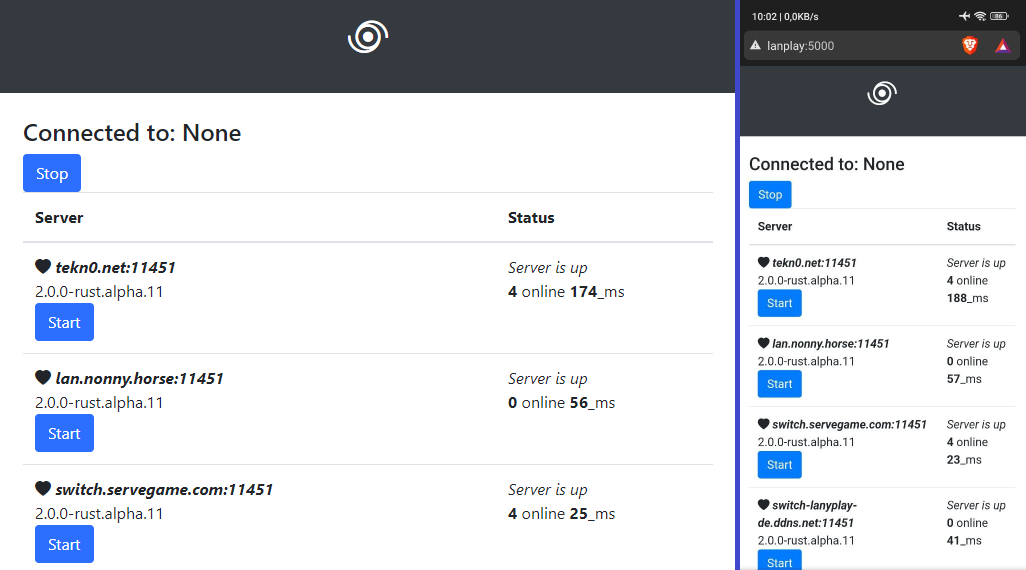
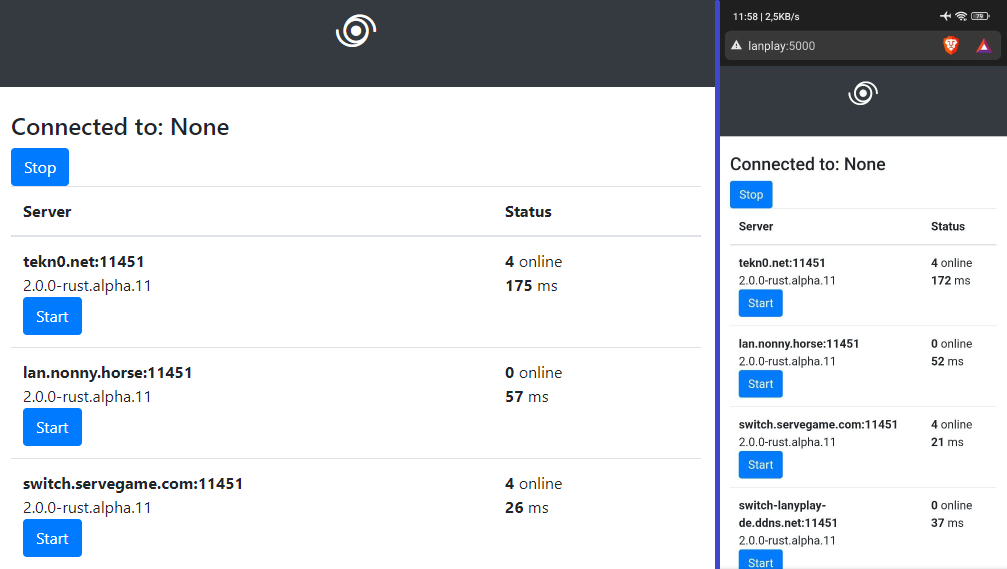
UI rework

diff --git a/templates/index.html b/templates/index.html
@@ -18,22 +18,21 @@
             <tr>
                 <td>
                     {% if server[2] == true %}
-                    <div><i class="bi bi-heart-fill"><b> {{ server[1] }}</b></i><br>
+                    <div><b>{{ server[1] }}</b><br>
 					{{ server[4] }}
                     <form action="/run" method="post"><input id="my_input" type="hidden" name="serverAddr"
                                                              value="{{ server[1] }}">
                         <button type="submit" name="serverAddr" class="btn btn-primary">Start</button>
                     </form></div>
                     {% else %}
-                        <div><i class="bi bi-heart-half"><b> {{ server[1] }}</b></i></div>
+                        <div><b>{{ server[1] }}</b></div>
                     {% endif %}
 					
 				
 				</td>
                 <td>
                     {% if server[2] == true %}
-                        <div><i>Server is up</i></div>
-                        <div><b>{{ server[3] }}</b> online <b>{{ server[5] }}</b>_ms</div>
+                        <div><b>{{ server[3] }}</b> online <b><br>{{ server[5] }}</b> ms</div>
                     {% else %}
                         <div><i>Server is down</i></div>
                     {% endif %}</td>
